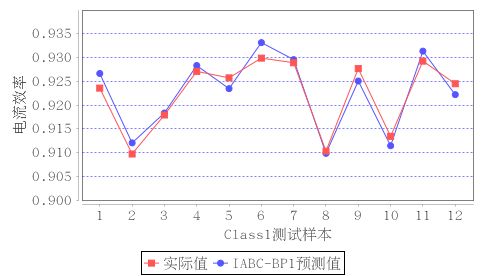
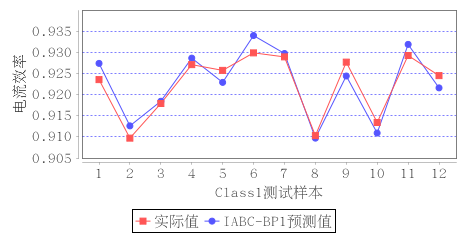
update subnet result

Changed region(s): [[0.0, 0.0299, 0.9872, 1.0], [0.1795, 0.7778, 0.2094, 0.8077]]

diff --git a/chart/src/main/java/dc/SubNetPlot.java b/chart/src/main/java/dc/SubNetPlot.java
@@ -33,7 +33,7 @@ public class SubNetPlot {
 		//Y轴
 		NumberAxis numberAxis = (NumberAxis) mPlot.getRangeAxis();
 		numberAxis.setAutoRangeMinimumSize(0.01);
-		numberAxis.setRange(0.90, 0.94);
+		numberAxis.setRange(0.905, 0.94);
 		//X轴
 		NumberAxis domainAxis = (NumberAxis) mPlot.getDomainAxis();  
 		domainAxis.setAutoRangeMinimumSize(10);
@@ -76,9 +76,9 @@ public class SubNetPlot {
 		for(int i=0; i<plain.length; i++){
 			double value = plain[i];
 			if(rand.nextBoolean()){
-				value *= 0.4*rand.nextDouble()/100;
+				value *= 0.5*rand.nextDouble()/100;
 			}else{
-				value *= -0.4*rand.nextDouble()/100;
+				value *= -0.5*rand.nextDouble()/100;
 			}
 			second.add(i+1,plain[i]+value);
 		}
